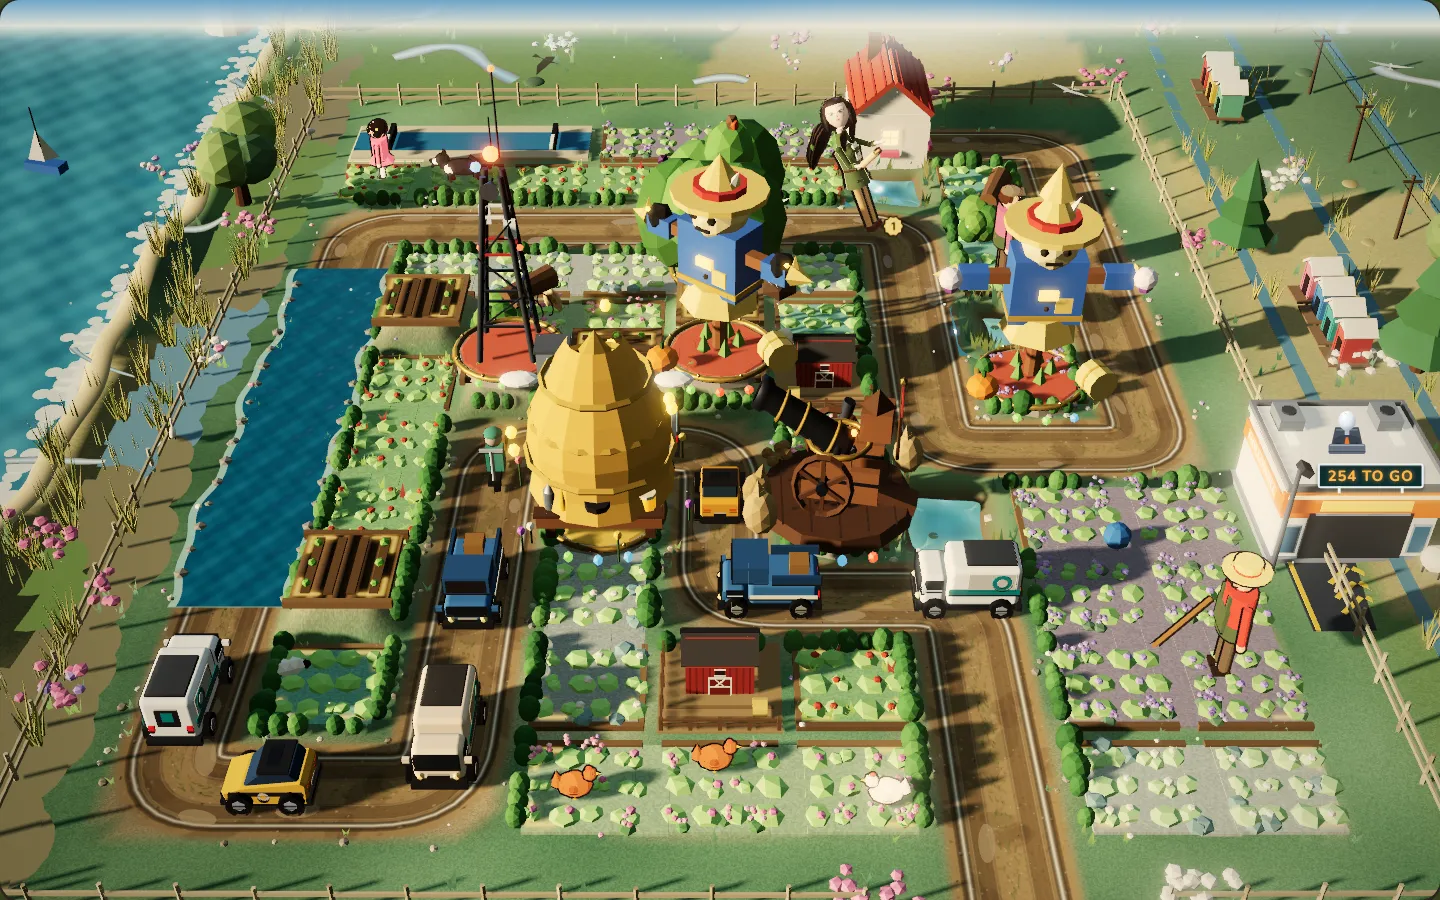
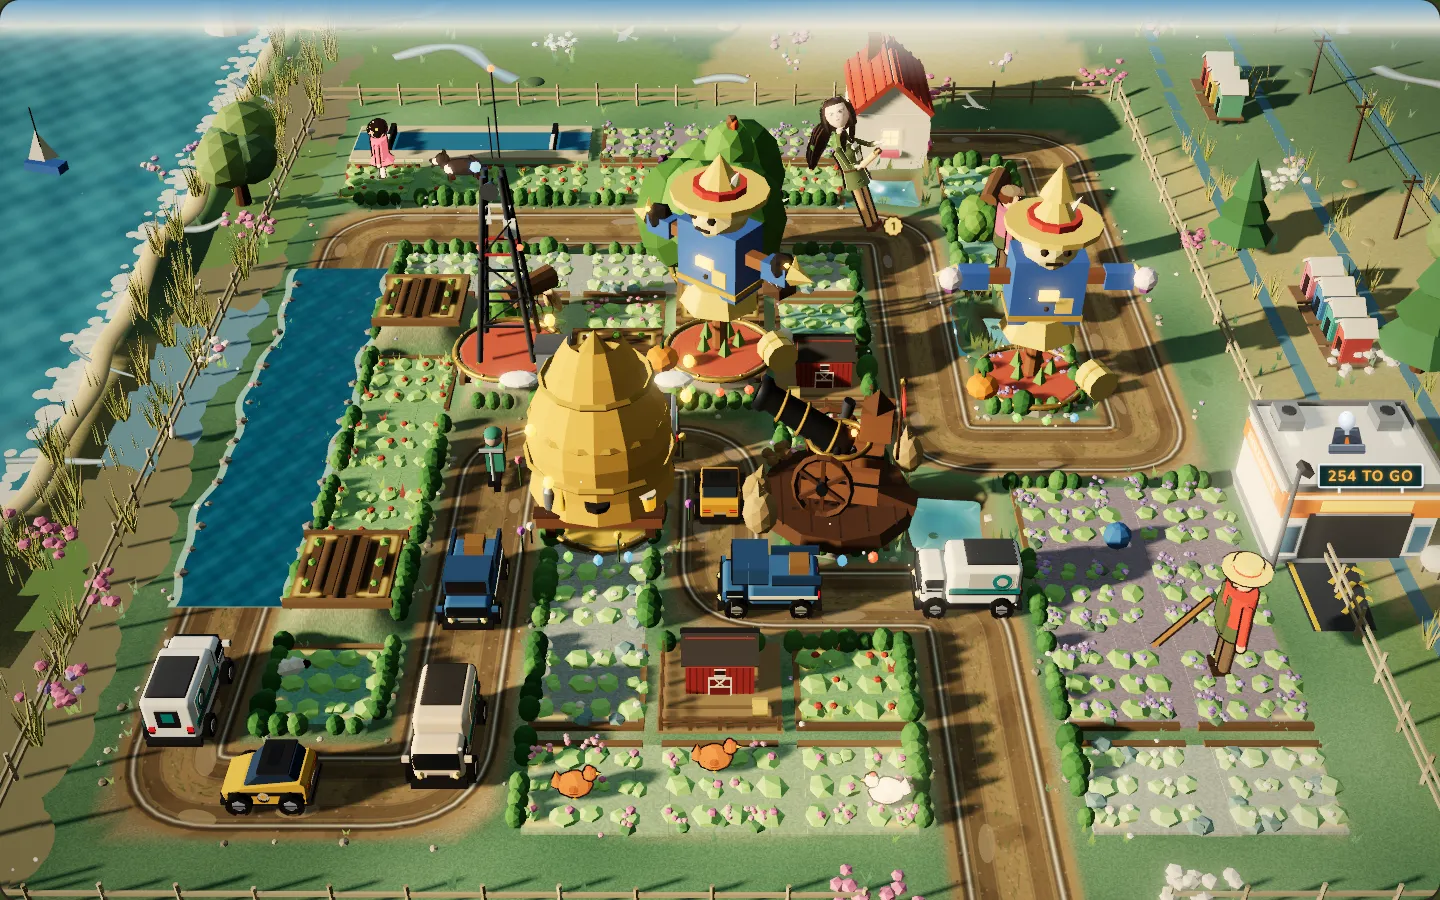
Hedgerow: the field guide docks over the side panel at D, big rigs queue a lorry apart, swarm badge counts clear of their sprites, small depot board covers its strip (plan 672)
Claude-Session: https://claude.ai/code/session_01SimvMMpJoBdGa2cjMAiGUh

diff --git a/games/hedgerow/src/render.ts b/games/hedgerow/src/render.ts
@@ -2121,7 +2121,7 @@ export class Renderer {
   /** The columns a swarm badge rode last frame (their own +N chip stands down). */
   private badged = new Set<ConvoyColumn>();
   private layOut(game: Game): Convoy {
-    this.lay = layOutField(game.enemies, (k) => SLOT_LEN * enemyScale(k as EnemyKind), SWARM_MIN);
+    this.lay = layOutField(game.enemies, (k) => Math.max(SLOT_LEN, RIG_LEN[k as EnemyKind] ?? 0) * enemyScale(k as EnemyKind), SWARM_MIN);
     return this.lay;
   }
   /** Where a vehicle is drawn (convoy.ts placeOnLane). */
@@ -2172,7 +2172,10 @@ export class Renderer {
     const tw = ctx.measureText(total).width;
     // One type: the total says it all, so the sprite goes without a count.
     const label = (n: number) => (kinds.length > 1 ? `${n}` : "");
-    const parts = kinds.map((k) => ({ ...k, w: icon + ctx.measureText(label(k.n)).width * 0.8 + 4 }));
+    // Plan item 672: a sprite draws up to 1.3 icons wide (a van's box), so its slot is that wide and the count starts
+    // after it; with an icon-wide slot the vans covered their own digits.
+    const slot = icon * 1.3;
+    const parts = kinds.map((k) => ({ ...k, w: slot + ctx.measureText(label(k.n)).width * 0.8 + 4 }));
     const pad = h * 0.3;
     const w = pad * 2 + tw + 8 + parts.reduce((a, q) => a + q.w + 4, 0);
     // Kept on the field's canvas (plan item 69: at 390 px a queue near the edge ran its badge off the screen).
@@ -2218,9 +2221,9 @@ export class Renderer {
     for (const q of parts) {
       const k = enemyScale(q.kind);
       const es = (icon * 1.7) / Math.max(1, k * 1.1);
-      drawEnemy(ctx, { kind: q.kind, facing: 1, hit: 9, ghost: false, phase: 0 }, cx + icon / 2, y0 + h * 0.86, es, 0);
+      drawEnemy(ctx, { kind: q.kind, facing: 1, hit: 9, ghost: false, phase: 0 }, cx + slot / 2, y0 + h * 0.86, es, 0);
       ctx.fillStyle = INK;
-      ctx.fillText(label(q.n), cx + icon, y0 + h / 2 + 1);
+      ctx.fillText(label(q.n), cx + slot + 2, y0 + h / 2 + 1);
       cx += q.w + 4;
     }
     ctx.restore();
@@ -2719,6 +2722,13 @@ export class Renderer {
 /** Plan item 568: how much the 2D field's baked ground is saturated, toward the 3D diorama's colour (1.7 put the 2D pond
  * 20 dE from the 3D one, past hedgerow-water's 15). */
 const BG_SATURATE = 1.55;
+
+/**
+ * Plan item 672: the big rigs' drawn lengths (as a share of their scale) plus a sliver of road. On SLOT_LEN slots a
+ * queue of box lorries down a north-south lane, two abreast, drew as one solid blue column (l34); the 3D view spaces
+ * them by their model's length the same way (render3d GAP_3D).
+ */
+const RIG_LEN: Partial<Record<EnemyKind, number>> = { lorry: 0.98, steel: 0.98, artic: 1.0, transporter: 1.0, skip: 0.9 };
 
 /** The width of a swarm badge's row of types (at most three) and its total, for layout. */
 const SWARM_KINDS = 3;

diff --git a/games/hedgerow/src/main.ts b/games/hedgerow/src/main.ts
@@ -4314,6 +4314,23 @@ function ringNewcomer(g: Game, k: EnemyKind, el: HTMLElement): void {
   el.append(ring);
 }
 
+/** Plan item 672: on a desktop the field-guide page docks over the side panel (the tower rack and round book it pauses),
+ *  not over the field's middle: the page is placed against the panel's own box, since the stage clips its children. */
+function dockIntro(el: HTMLElement): void {
+  const pr = ui.panel.getBoundingClientRect();
+  const sr = ui.stage.getBoundingClientRect();
+  const side = matchMedia("(min-width: 601px) and (min-height: 521px)").matches && pr.width >= 300 && pr.height >= 360 && pr.left >= sr.right - 4;
+  el.classList.toggle("intro-side", side);
+  if (!side) return;
+  el.style.setProperty("--dock-x", `${Math.round(pr.left)}px`);
+  el.style.setProperty("--dock-y", `${Math.round(pr.top)}px`);
+  el.style.setProperty("--dock-w", `${Math.round(pr.width)}px`);
+  el.style.setProperty("--dock-h", `${Math.round(pr.height)}px`);
+}
+addEventListener("resize", () => {
+  if (!ui.intro.hidden && ui.intro.classList.contains("intro-page")) dockIntro(ui.intro);
+});
+
 function showIntroPage(g: Game, k: EnemyKind): void {
   const el = ui.intro;
   el.replaceChildren();
@@ -4405,6 +4422,7 @@ function showIntroPage(g: Game, k: EnemyKind): void {
   el.classList.remove("pop");
   void el.offsetWidth;
   el.classList.add("pop");
+  dockIntro(el);
   ringNewcomer(g, k, el);
   say(`${ENEMIES[k].name}. ${describeEnemy(k)}`);
   // Plan item 19: one voice at a time. Cath's tip steps aside and comes back after the page.

diff --git a/games/hedgerow/src/styles.css b/games/hedgerow/src/styles.css
@@ -5481,6 +5481,8 @@ img.act-scene {
 /* Plan item 336: on a small depot (an upright phone) the 12 px count is taller than the drawn LED strip, so its own
    box becomes the board: dark, a touch taller, centred on the strip, so nothing spills onto the cornice. */
 .depot[data-small] .depot-board { top: 22%; height: 17%; padding: 0 4px; background: var(--ink); border-radius: 2px; }
+/* Plan item 672: ...and from the drawn strip's left end to the rep (item 201), so the strip's end doesn't show as a dark wedge. */
+.depot[data-small]:not([data-tiny]) .depot-board { left: 14%; translate: 0 0; min-width: 61%; max-width: 61%; }
 .depot-rep {
   position: absolute;
   /* Plan item 201: along the rail clear of the departures board (26-74%); at 72% his shoulder sat on its end. */
@@ -6757,6 +6759,18 @@ img.act-scene {
   .intro-sketch { justify-self: start; width: 132px; }
   .intro-sketch .intro-icon { width: 104px; }
   .intro-driver { width: 52px; height: 52px; }
+  /* plan item 672: the mugshot hangs below the sketch; the kicker starts under it, whole ('GUIDE' was clipped) */
+  .intro-sketch { margin-bottom: 16px; }
+}
+/* Plan item 672: on a desktop the page docks over the side panel (placed by `dockIntro` against the panel's box), the
+   field left clear under a light dim. */
+.intro.intro-side .intro-sheet {
+  position: fixed;
+  left: var(--dock-x);
+  top: var(--dock-y);
+  width: var(--dock-w);
+  max-height: var(--dock-h);
+  transform: none;
 }
 @media (max-width: 600px) {
   .intro { place-items: end stretch; padding: 6px; }
